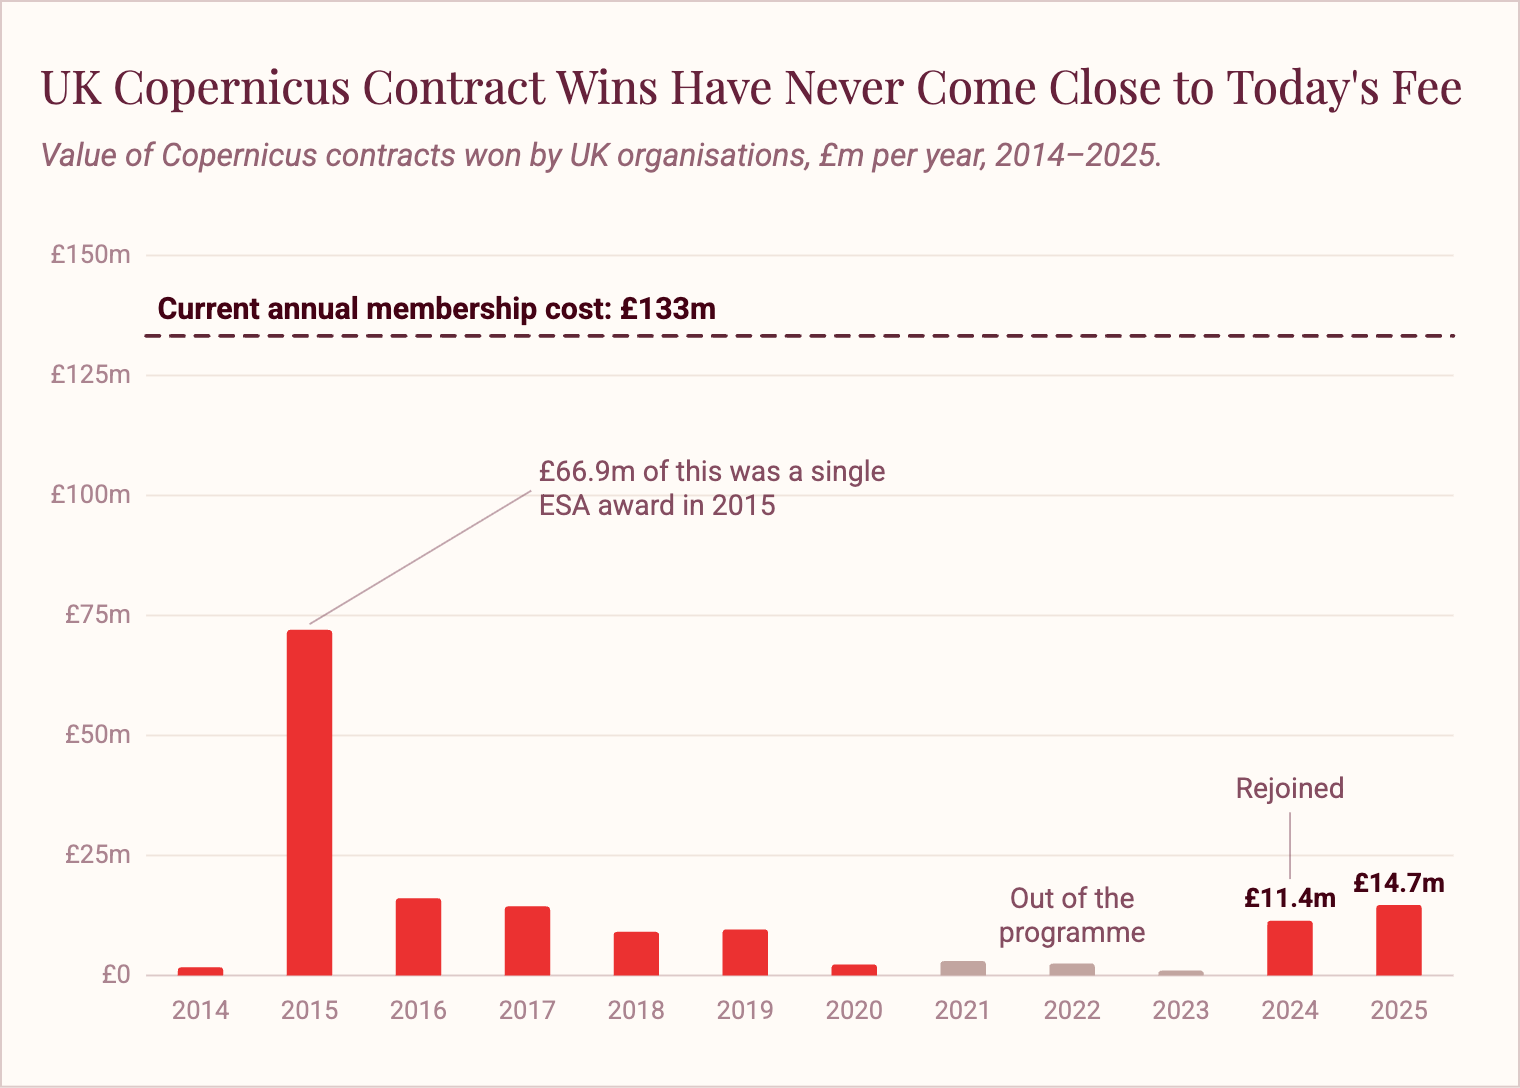
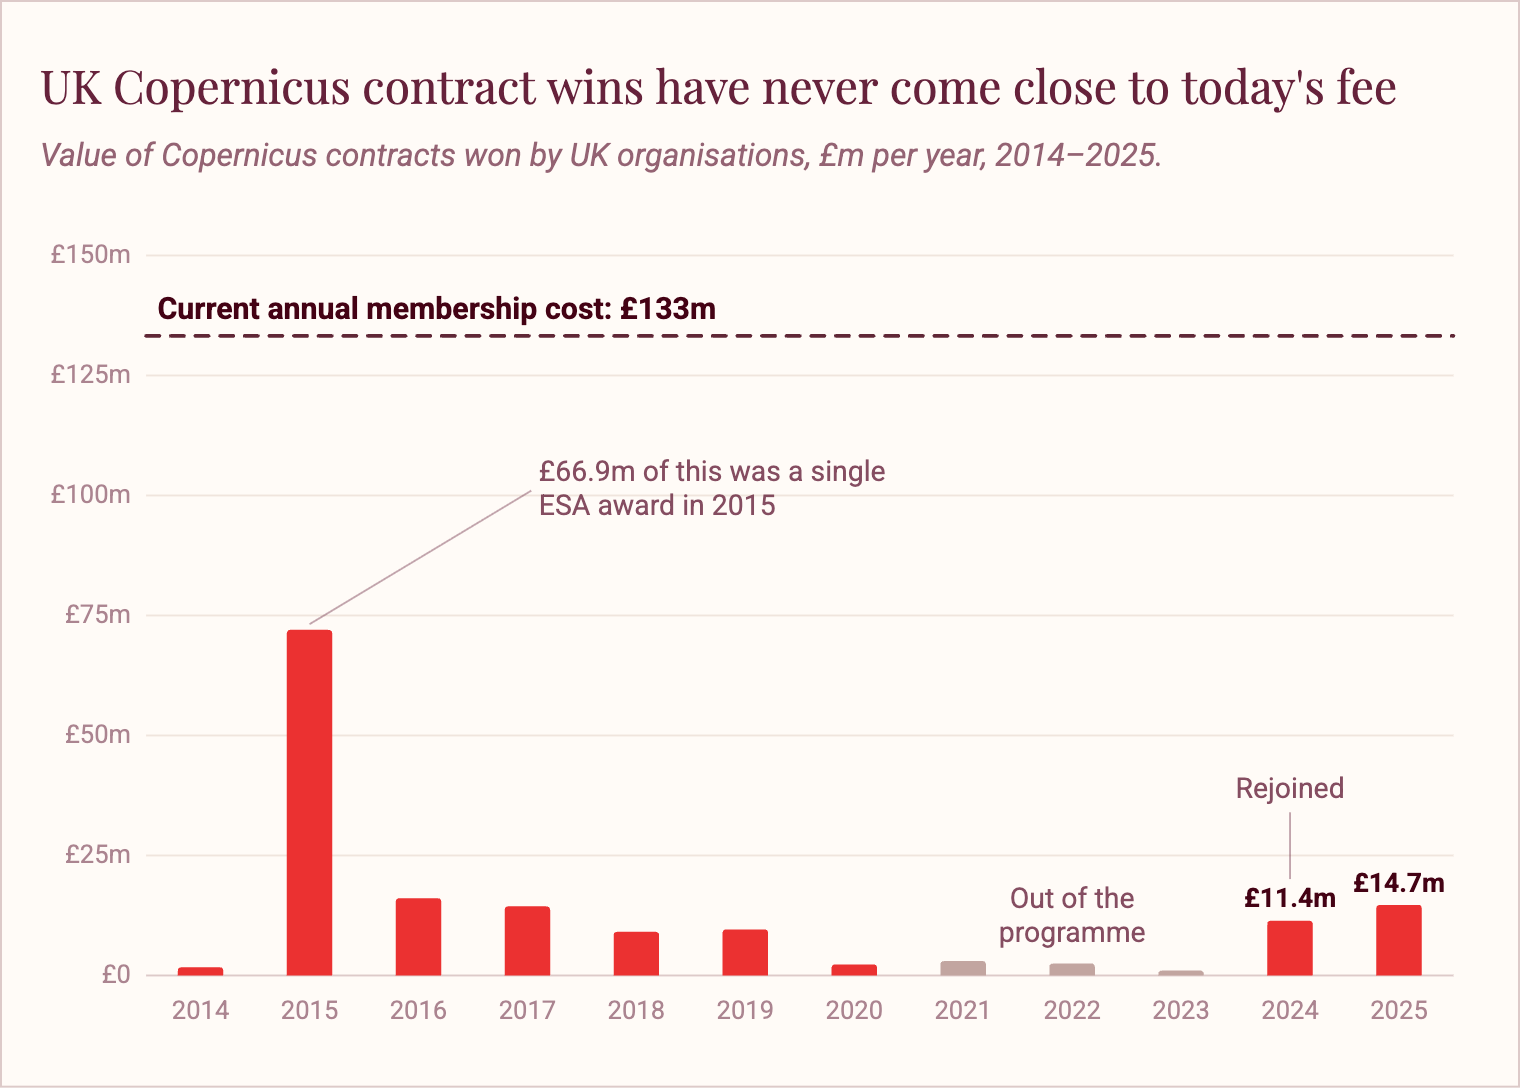
final tweaks to essay + footer

Changed region(s): [[0.2474, 0.0625, 0.9586, 0.0938]]

diff --git a/src/styles/global.css b/src/styles/global.css
@@ -702,7 +702,7 @@
       display: flex;
       align-items: center;
       padding: 0 24px;
-      min-height: 80px;
+      min-height: 60px;
       font-family: 'Antique Olive', sans-serif;
       font-size: 13px;
     }
@@ -714,39 +714,29 @@
     }
     .footer-copy {
       text-align: left;
+      text-transform: uppercase;
       letter-spacing: 0.04em;
       line-height: 1.3;
       opacity: 0.75;
     }
-    /* Right-hand group: policy links + copyright on one line, with the
-       registered-office notice tucked underneath, all right-aligned. */
+    /* Right-hand group: policy links + copyright, pushed to the far right. */
     .footer-end {
       margin-left: auto;          /* the "big space" between socials and this group */
       display: flex;
-      flex-direction: column;
-      align-items: flex-end;
-      gap: 10px;
-      padding: 20px 0;            /* breathing room now the band holds two lines */
+      align-items: center;
+      gap: 40px;                  /* spacing between the four right-hand items */
     }
-    .footer-policies { display: flex; align-items: center; gap: 20px; }
+    .footer-policies { display: flex; gap: 40px; }
     .footer-link {
       color: #fff;
       text-decoration: none;
       opacity: 0.75;
       display: inline-block;
+      text-transform: uppercase;
       letter-spacing: 0.04em;
       line-height: 1.3;
     }
     .footer-link:hover { opacity: 1; text-decoration: underline; }
-
-    .footer-link-divider { color: var(--border-grey); opacity: 0.5; }
-
-    .footer-registered {
-      font-size: 13px;
-      letter-spacing: 0.04em;
-      line-height: 1.3;
-      opacity: 0.55;
-    }
 
     .footer-socials {
       display: flex;
@@ -1089,8 +1079,6 @@
   .signup-pix { display: none; }
   .footer-info { display: none; }   /* the wordmark/projects block is desktop-only */
   .footer-bottom { padding: 0 8px; }
-  .footer-end { font-size: 8px; gap: 3px; padding: 8px 0; }
-  .footer-legal { gap: 16px; }
+  .footer-end { font-size: 8px; gap: 16px; }
   .footer-policies { gap: 16px; }
-  .footer-registered { font-size: 7px; }
 }
